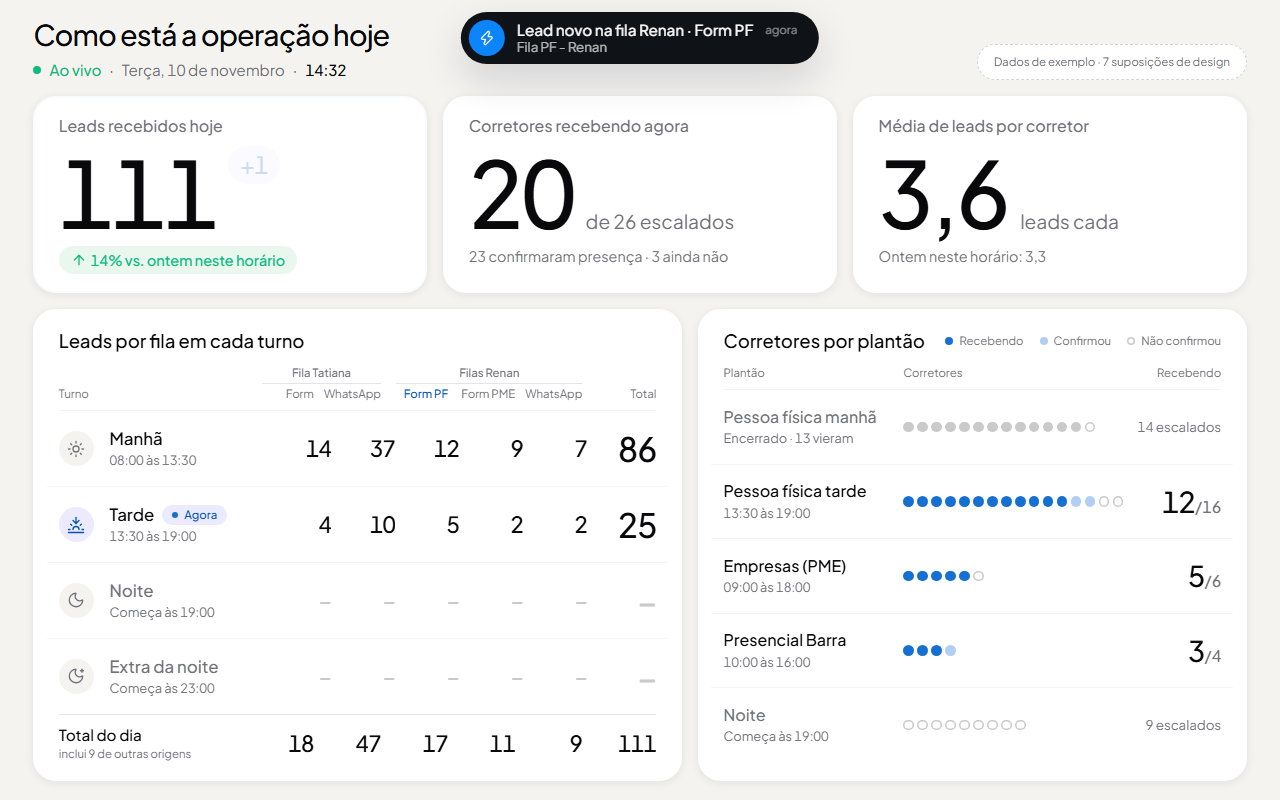
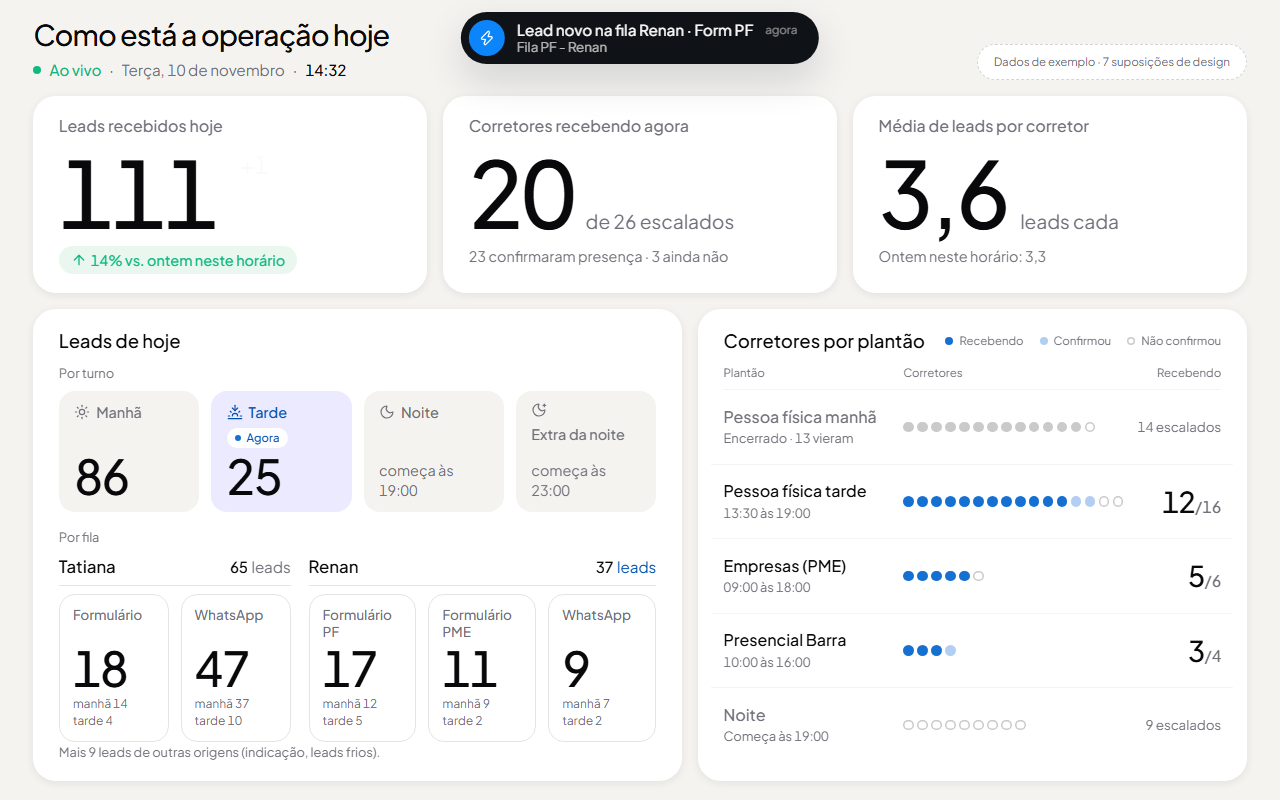
feat(dev): painel ao vivo troca a grade de filas por turnos e cartões
A grade turno x fila era difícil de ler. Agora "Leads de hoje" tem uma faixa
por turno (Manhã, Tarde, Noite, Extra) e um cartão por fila, agrupados em
Tatiana (Formulário, WhatsApp) e Renan (Formulário PF, Formulário PME,
WhatsApp), com o total do dia em número grande e "manhã N · tarde N" embaixo.
Os números dos cartões crescem com a altura da tela para a TV.

diff --git a/src/app/dev/painel-ao-vivo/painel.module.css b/src/app/dev/painel-ao-vivo/painel.module.css
@@ -7,6 +7,7 @@
   /* Suposição: números de destaque acima da escala (máx. --text-5xl 48px), crescem com a altura da tela. */
   --live-big: clamp(56px, 11.5vh, 128px);
   --live-mid: clamp(26px, 4.2vh, 52px);
+  --live-tile: clamp(28px, 6vh, 72px);
   --live-gap: clamp(12px, 2vh, 24px);
   --live-pad: clamp(16px, 2.4vh, 32px);
   --tracking-display: -0.03em;
@@ -94,30 +95,29 @@
 .legend { display: flex; flex-wrap: wrap; gap: 4px 16px; margin: 0; padding: 0; list-style: none; color: var(--text-muted); font-size: var(--text-xs); }
 .legend li { display: inline-flex; align-items: center; gap: 6px; }
 
-/* Filas por turno: ícone | turno | 5 filas | total */
-.turnoGrid { display: grid; grid-template-columns: auto minmax(0, 1fr) repeat(5, minmax(3.2em, 0.3fr)) minmax(2.8em, 0.34fr); align-items: center; column-gap: clamp(10px, 1.2vw, 20px); }
-.turnoHead { row-gap: 2px; padding-bottom: 8px; border-bottom: 1px solid var(--border-subtle); color: var(--text-muted); font-size: var(--text-xs); }
-.turnoHead > span { white-space: nowrap; transition: color var(--duration-fast, 250ms) ease; }
-.headLit { color: var(--series-1-text); font-weight: 500; }
-.groupLabel { grid-row: 1; justify-self: stretch; padding-bottom: 2px; border-bottom: 1px solid var(--border); color: var(--text-secondary); font-weight: 500; text-align: center; }
-.turnos { display: flex; flex: 1; flex-direction: column; justify-content: space-between; min-height: 0; margin: 0; padding: 0; list-style: none; }
-.turno { position: relative; flex: 1; padding: 0 12px; margin: 0 -12px; border-radius: var(--radius-panel); }
-.turno + .turno { border-top: 1px solid var(--border-subtle); border-top-left-radius: 0; border-top-right-radius: 0; }
-.turnoIcon { display: grid; place-items: center; width: clamp(32px, 4.4vh, 44px); height: clamp(32px, 4.4vh, 44px); border-radius: 9999px; background: var(--surface-muted); color: var(--text-secondary); }
-.turno[data-state="agora"] .turnoIcon { color: var(--series-1-text); background: var(--accent-subtle); }
-.turnoMain { min-width: 0; }
-.turnoName { display: flex; align-items: center; gap: 8px; margin: 0; font-size: clamp(var(--text-base), 2.1vh, var(--text-xl)); font-weight: 500; }
-.turno[data-state="depois"] .turnoName { color: var(--text-secondary); }
-.turnoHours { margin: 2px 0 0; color: var(--text-muted); font-size: clamp(var(--text-xs), 1.6vh, var(--text-base)); }
-.turnoNumber { --text-3xl: var(--live-mid); min-width: 2ch; font-size: var(--live-mid); font-weight: 500; letter-spacing: var(--tracking-display); line-height: 1; }
-.turnoNumber[data-empty], .origemCell[data-empty] { color: var(--neutral-5); }
-.origemCell { --text-3xl: clamp(18px, 2.8vh, 36px); position: relative; padding: 6px 8px; margin: -6px -8px; border-radius: 8px; font-size: clamp(18px, 2.8vh, 36px); font-weight: 500; letter-spacing: var(--tracking-display); line-height: 1; color: var(--text-secondary); transition: color var(--duration-fast, 250ms) ease; }
-.origemCell[data-lit] { color: var(--series-1-text); }
-.origemTotal { color: var(--foreground); }
-.turnoFoot { padding-top: clamp(8px, 1.2vh, 14px); border-top: 1px solid var(--border); }
-.turnoFootLabel { display: flex; flex-direction: column; font-size: clamp(var(--text-sm), 1.9vh, var(--text-lg)); font-weight: 500; }
-.turnoFootNote { color: var(--text-muted); font-size: var(--text-xs); font-weight: 400; }
-.nowPill { display: inline-flex; align-items: center; gap: 6px; padding: 2px 10px; border-radius: var(--radius-control); background: var(--accent-subtle); color: var(--series-1-text); font-size: var(--text-xs); font-weight: 500; }
+/* Leads de hoje: faixa por turno + cartões por fila */
+.sectionLabel { margin: 0 0 8px; color: var(--text-muted); font-size: clamp(var(--text-xs), 1.6vh, var(--text-sm)); }
+.turnoStrip { display: grid; grid-template-columns: repeat(4, minmax(0, 1fr)); gap: clamp(8px, 1vw, 12px); margin: 0 0 clamp(12px, 2.2vh, 24px); padding: 0; list-style: none; }
+.turnoBlock { position: relative; display: flex; flex-direction: column; justify-content: space-between; gap: 4px; min-height: clamp(76px, 13vh, 150px); padding: clamp(10px, 1.4vh, 16px) clamp(12px, 1.2vw, 16px); border-radius: 16px; background: var(--surface-muted); }
+.turnoBlock[data-state="agora"] { background: var(--accent-subtle); }
+.turnoBlockName { display: flex; flex-wrap: wrap; align-items: center; gap: 6px; margin: 0; color: var(--text-secondary); font-size: clamp(var(--text-sm), 1.8vh, var(--text-lg)); font-weight: 500; }
+.turnoBlock[data-state="agora"] .turnoBlockName { color: var(--series-1-text); }
+.turnoBlockNumber { --text-3xl: var(--live-tile); margin: 0; font-size: var(--live-tile); font-weight: 500; letter-spacing: var(--tracking-display); line-height: 1; }
+.turnoBlockLater { margin: 0; color: var(--text-muted); font-size: clamp(var(--text-sm), 1.8vh, var(--text-lg)); }
+.nowPill { display: inline-flex; align-items: center; gap: 6px; padding: 2px 8px; border-radius: var(--radius-control); background: var(--surface); color: var(--series-1-text); font-size: var(--text-xs); font-weight: 500; }
+
+.filaGroups { display: grid; grid-template-columns: minmax(0, 2fr) minmax(0, 3fr); gap: clamp(12px, 1.4vw, 20px); flex: 1; min-height: 0; }
+.filaGroup { display: flex; flex-direction: column; gap: 8px; min-width: 0; }
+.filaGroupName { display: flex; align-items: baseline; justify-content: space-between; gap: 8px; margin: 0; padding-bottom: 6px; border-bottom: 1px solid var(--border); font-size: clamp(var(--text-base), 2.1vh, var(--text-xl)); font-weight: 500; }
+.filaGroupTotal, .filaGroupTotalLit { --text-3xl: clamp(var(--text-sm), 1.9vh, var(--text-lg)); display: inline-flex; align-items: baseline; gap: 4px; color: var(--text-secondary); font-size: clamp(var(--text-sm), 1.9vh, var(--text-lg)); font-weight: 400; transition: color var(--duration-fast, 250ms) ease; }
+.filaGroupTotalLit { color: var(--series-1-text); }
+.filaTiles { display: grid; gap: clamp(8px, 1vw, 12px); flex: 1; }
+.filaTile { position: relative; display: flex; flex-direction: column; gap: 4px; min-width: 0; padding: clamp(10px, 1.4vh, 16px) clamp(10px, 1vw, 14px); border: 1px solid var(--border); border-radius: 16px; background: var(--surface); }
+.filaTileName { margin: 0; color: var(--text-secondary); font-size: clamp(var(--text-xs), 1.7vh, var(--text-base)); font-weight: 500; line-height: 1.25; }
+.filaTileNumber { --text-3xl: var(--live-tile); margin: auto 0 0; font-size: var(--live-tile); font-weight: 500; letter-spacing: var(--tracking-display); line-height: 1; transition: color var(--duration-fast, 250ms) ease; }
+.filaTile[data-lit] .filaTileNumber { color: var(--series-1-text); }
+.filaTileSplit { display: flex; flex-wrap: wrap; gap: 0 8px; margin: 0; color: var(--text-muted); font-size: clamp(11px, 1.5vh, var(--text-sm)); }
+.filaNote { margin: clamp(8px, 1.4vh, 14px) 0 0; color: var(--text-muted); font-size: clamp(var(--text-xs), 1.6vh, var(--text-sm)); }
 
 /* Plantões: nome | pontos | recebendo */
 .plantaoHead, .plantao { display: grid; grid-template-columns: minmax(0, 1fr) calc(16 * (var(--dot) + var(--dot-gap))) clamp(64px, 9.5vh, 112px); align-items: center; gap: clamp(12px, 1.4vw, 24px); }
@@ -157,28 +157,17 @@
 
 /* ------------------------------------------------------------ celular e tablet */
 @media (max-width: 1023px) {
-  .page { --live-big: 64px; --live-mid: 36px; grid-template-rows: none; align-content: start; height: 100dvh; overflow-y: auto; overscroll-behavior: contain; }
+  .page { --live-big: 64px; --live-mid: 36px; --live-tile: 36px; grid-template-rows: none; align-content: start; height: 100dvh; overflow-y: auto; overscroll-behavior: contain; }
   .header { flex-direction: column; align-items: flex-start; }
   .hero, .bottom { grid-template-columns: 1fr; }
-  .bottom, .panel, .turnos, .plantoes { min-height: auto; }
-  .turnos, .plantoes { flex: none; }
-  .turno, .plantao { min-height: 72px; }
-  .turnoGrid { column-gap: 8px; }
+  .bottom, .panel, .plantoes, .filaGroups { min-height: auto; }
+  .plantoes { flex: none; }
+  .plantao { min-height: 72px; }
+  .filaGroups { grid-template-columns: 1fr; }
 }
 @media (max-width: 640px) {
   .page { --live-big: 56px; --live-mid: 26px; }
-  /* Celular: ícone e horário saem da linha para as cinco filas caberem. */
-  .turnoIcon, .turnoHours { display: none; }
-  .turnoGrid { grid-template-columns: minmax(0, 1fr) repeat(5, minmax(1.9em, auto)) minmax(2.4em, auto); column-gap: 9px; }
-  .turnoHead { font-size: 10px; }
-  .turnoHead > span:nth-child(1) { grid-column: 2 / span 2 !important; }
-  .turnoHead > span:nth-child(2) { grid-column: 4 / span 3 !important; }
-  .turnoHead > span:nth-child(3), .turnoFootLabel { grid-column: 1 !important; }
-  .turnoHead > span:nth-child(n+4):nth-child(-n+8) { grid-column: auto !important; }
-  .turnoHead > span:last-child { grid-column: 7 !important; }
-  .origemCell { --text-3xl: 17px; font-size: 17px; padding: 4px; margin: -4px; }
-  .turnoName { font-size: var(--text-sm); }
-  .nowPill { padding: 1px 6px; }
+  .turnoStrip { grid-template-columns: repeat(2, minmax(0, 1fr)); }
   .plantaoHead { display: none; }
   .plantao { grid-template-columns: minmax(0, 1fr) auto; grid-template-areas: "name num" "dots dots"; row-gap: 8px; padding-block: 12px; }
   .plantaoName { grid-area: name; }

diff --git a/src/app/dev/painel-ao-vivo/_components/live-panel.tsx b/src/app/dev/painel-ao-vivo/_components/live-panel.tsx
@@ -149,38 +149,42 @@ export function LivePanel({ intervalMs, openAssumptions }: { intervalMs: number;
       </section>
 
       <div className={styles.bottom}>
-        <motion.section className={styles.panel} aria-labelledby="filas-title" {...rise(4)}>
+        <motion.section className={styles.panel} aria-labelledby="leads-title" {...rise(4)}>
           <header className={styles.panelHeader}>
-            <h2 id="filas-title" className={styles.panelTitle}>Leads por fila em cada turno</h2>
+            <h2 id="leads-title" className={styles.panelTitle}>Leads de hoje</h2>
           </header>
-          <div className={`${styles.turnoGrid} ${styles.turnoHead}`} aria-hidden>
-            <span style={{ gridColumn: "3 / span 2" }} className={styles.groupLabel}>Fila Tatiana</span>
-            <span style={{ gridColumn: "5 / span 3" }} className={styles.groupLabel}>Filas Renan</span>
-            <span style={{ gridColumn: "1 / span 2", gridRow: 2 }}>Turno</span>
-            {FILA_COLUMNS.map((column, i) => (
-              <span key={column.key} style={{ gridColumn: 3 + i, gridRow: 2 }} className={`${styles.alignEnd} ${flash?.origem === column.key ? styles.headLit : ""}`}>{column.short}</span>
-            ))}
-            <span style={{ gridColumn: 8, gridRow: 2 }} className={styles.alignEnd}>Total</span>
-          </div>
-          <ul className={styles.turnos}>
+
+          <p className={styles.sectionLabel}>Por turno</p>
+          <ul className={styles.turnoStrip}>
             {data.turnos.map((turno) => (
-              <TurnoRow key={turno.key} turno={turno} reduce={reduce} flash={flash?.kind === "lead" && flash.turno === turno.key ? flash : null} />
+              <TurnoBlock key={turno.key} turno={turno} reduce={reduce} flashId={flash?.kind === "lead" && flash.turno === turno.key ? flash.id : null} />
             ))}
           </ul>
-          <div className={`${styles.turnoGrid} ${styles.turnoFoot}`}>
-            <span className={styles.turnoFootLabel} style={{ gridColumn: "1 / span 2" }}>
-              Total do dia
-              {others > 0 ? <span className={styles.turnoFootNote}>inclui {others} de outras origens</span> : null}
-            </span>
-            {FILA_COLUMNS.map((column) => (
-              <Cell key={column.key} flashId={flash?.origem === column.key ? flash.id : null} reduce={reduce} label={`${column.queue}, total do dia: ${origens[column.key]}`}>
-                <AnimatedCounter value={origens[column.key]} locale="pt-BR" animateOnView />
-              </Cell>
-            ))}
-            <Cell flashId={leadFlash} reduce={reduce} strong label={`Total do dia: ${total}`}>
-              <AnimatedCounter value={total} locale="pt-BR" animateOnView />
-            </Cell>
+
+          <p className={styles.sectionLabel}>Por fila</p>
+          <div className={styles.filaGroups}>
+            {(["Tatiana", "Renan"] as const).map((group) => {
+              const columns = FILA_COLUMNS.filter((column) => column.group === group);
+              const groupTotal = columns.reduce((sum, column) => sum + origens[column.key], 0);
+              const lit = columns.some((column) => column.key === flash?.origem);
+              return (
+                <div key={group} className={styles.filaGroup}>
+                  <p className={styles.filaGroupName}>
+                    {group}
+                    <span className={lit ? styles.filaGroupTotalLit : styles.filaGroupTotal}>
+                      <Bump id={lit ? flash?.id ?? null : null} reduce={reduce}><AnimatedCounter value={groupTotal} locale="pt-BR" animateOnView /></Bump> leads
+                    </span>
+                  </p>
+                  <div className={styles.filaTiles} style={{ gridTemplateColumns: `repeat(${columns.length}, minmax(0, 1fr))` }}>
+                    {columns.map((column) => (
+                      <FilaTile key={column.key} column={column} turnos={data.turnos} total={origens[column.key]} reduce={reduce} flashId={flash?.origem === column.key ? flash.id : null} />
+                    ))}
+                  </div>
+                </div>
+              );
+            })}
           </div>
+          {others > 0 ? <p className={styles.filaNote}>Mais {others} leads de outras origens (indicação, leads frios).</p> : null}
         </motion.section>
 
         <motion.section className={styles.panel} aria-labelledby="plantoes-title" {...rise(5)}>
@@ -226,39 +230,38 @@ export function LivePanel({ intervalMs, openAssumptions }: { intervalMs: number;
   );
 }
 
-function TurnoRow({ turno, reduce, flash }: { turno: Turno; reduce: boolean; flash: Flash | null }) {
+function TurnoBlock({ turno, reduce, flashId }: { turno: Turno; reduce: boolean; flashId: number | null }) {
   const Icon = TURNO_ICON[turno.key];
   const later = turno.state === "depois";
   return (
-    <li className={`${styles.turnoGrid} ${styles.turno}`} data-state={turno.state}>
-      <FlashRing id={flash?.id ?? null} reduce={reduce} soft />
-      <span className={styles.turnoIcon} aria-hidden><Icon size={18} strokeWidth={1.75} /></span>
-      <div className={styles.turnoMain}>
-        <p className={styles.turnoName}>
-          {turno.label}
-          {turno.state === "agora" ? <span className={styles.nowPill}><span className={styles.liveDotBlue} aria-hidden />Agora</span> : null}
-        </p>
-        <p className={styles.turnoHours}>{later ? `Começa às ${turno.startsAt}` : turno.hours}</p>
-      </div>
-      {FILA_COLUMNS.map((column) => (
-        <Cell key={column.key} flashId={flash && flash.origem === column.key ? flash.id : null} reduce={reduce} empty={later} label={`${turno.label}, ${column.queue}: ${turno.origens[column.key]}`}>
-          {later ? "–" : <AnimatedCounter value={turno.origens[column.key]} locale="pt-BR" animateOnView />}
-        </Cell>
-      ))}
-      <span className={`${styles.turnoNumber} ${styles.alignEnd}`} data-empty={later ? "" : undefined}>
-        {later ? "–" : <Bump id={flash?.id ?? null} reduce={reduce}><AnimatedCounter value={turno.leads} locale="pt-BR" animateOnView /></Bump>}
-      </span>
+    <li className={styles.turnoBlock} data-state={turno.state} aria-label={later ? `${turno.label}: começa às ${turno.startsAt}` : `${turno.label}: ${turno.leads} leads`}>
+      <FlashRing id={flashId} reduce={reduce} soft />
+      <p className={styles.turnoBlockName}>
+        <Icon size={16} strokeWidth={1.75} aria-hidden />
+        {turno.label}
+        {turno.state === "agora" ? <span className={styles.nowPill}><span className={styles.liveDotBlue} aria-hidden />Agora</span> : null}
+      </p>
+      {later ? (
+        <p className={styles.turnoBlockLater}>começa às {turno.startsAt}</p>
+      ) : (
+        <p className={styles.turnoBlockNumber}><Bump id={flashId} reduce={reduce}><AnimatedCounter value={turno.leads} locale="pt-BR" animateOnView /></Bump></p>
+      )}
     </li>
   );
 }
 
-/** Número de uma fila: acende e dá um pulo curto quando chega lead nela. */
-function Cell({ flashId, reduce, empty, strong, label, children }: { flashId: number | null; reduce: boolean; empty?: boolean; strong?: boolean; label: string; children: ReactNode }) {
+/** Uma fila: total do dia grande e, embaixo, quanto veio em cada turno que já começou. */
+function FilaTile({ column, turnos, total, reduce, flashId }: { column: (typeof FILA_COLUMNS)[number]; turnos: Turno[]; total: number; reduce: boolean; flashId: number | null }) {
+  const started = turnos.filter((turno) => turno.state !== "depois");
   return (
-    <span className={`${styles.origemCell} ${strong ? styles.origemTotal : ""} ${styles.alignEnd}`} data-empty={empty ? "" : undefined} data-lit={flashId !== null ? "" : undefined} aria-label={label}>
-      <FlashRing id={flashId} reduce={reduce} soft />
-      <Bump id={flashId} reduce={reduce}>{children}</Bump>
-    </span>
+    <div className={styles.filaTile} data-lit={flashId !== null ? "" : undefined} aria-label={`${column.queue}: ${total} leads hoje`}>
+      <FlashRing id={flashId} reduce={reduce} />
+      <p className={styles.filaTileName}>{column.tile}</p>
+      <p className={styles.filaTileNumber}><Bump id={flashId} reduce={reduce}><AnimatedCounter value={total} locale="pt-BR" animateOnView /></Bump></p>
+      <p className={styles.filaTileSplit}>
+        {started.map((turno) => <span key={turno.key}>{turno.label.toLowerCase()} {turno.origens[column.key]}</span>)}
+      </p>
+    </div>
   );
 }
 

diff --git a/src/app/dev/painel-ao-vivo/_components/data.ts b/src/app/dev/painel-ao-vivo/_components/data.ts
@@ -15,13 +15,13 @@ export type OrigemKey = "tatianaForm" | "tatianaWhatsapp" | "renanPf" | "renanPm
 export type Origens = Record<OrigemKey, number>;
 export const ORIGEM_KEYS: OrigemKey[] = ["tatianaForm", "tatianaWhatsapp", "renanPf", "renanPme", "renanWhatsapp"];
 
-export type FilaColumn = { key: OrigemKey; group: "Tatiana" | "Renan"; short: string; label: string; queue: string };
+export type FilaColumn = { key: OrigemKey; group: "Tatiana" | "Renan"; short: string; tile: string; label: string; queue: string };
 export const FILA_COLUMNS: FilaColumn[] = [
-  { key: "tatianaForm", group: "Tatiana", short: "Form", label: "Tatiana · Form", queue: "Fila TATIANA (formulário)" },
-  { key: "tatianaWhatsapp", group: "Tatiana", short: "WhatsApp", label: "Tatiana · WhatsApp", queue: "Fila TATIANA (WhatsApp)" },
-  { key: "renanPf", group: "Renan", short: "Form PF", label: "Renan · Form PF", queue: "Fila PF - Renan" },
-  { key: "renanPme", group: "Renan", short: "Form PME", label: "Renan · Form PME", queue: "Fila PME - Renan" },
-  { key: "renanWhatsapp", group: "Renan", short: "WhatsApp", label: "Renan · WhatsApp", queue: "Whatsapp Renan" },
+  { key: "tatianaForm", group: "Tatiana", short: "Form", tile: "Formulário", label: "Tatiana · Form", queue: "Fila TATIANA (formulário)" },
+  { key: "tatianaWhatsapp", group: "Tatiana", short: "WhatsApp", tile: "WhatsApp", label: "Tatiana · WhatsApp", queue: "Fila TATIANA (WhatsApp)" },
+  { key: "renanPf", group: "Renan", short: "Form PF", tile: "Formulário PF", label: "Renan · Form PF", queue: "Fila PF - Renan" },
+  { key: "renanPme", group: "Renan", short: "Form PME", tile: "Formulário PME", label: "Renan · Form PME", queue: "Fila PME - Renan" },
+  { key: "renanWhatsapp", group: "Renan", short: "WhatsApp", tile: "WhatsApp", label: "Renan · WhatsApp", queue: "Whatsapp Renan" },
 ];
 
 export type TurnoKey = "manha" | "tarde" | "noite" | "extra";

diff --git a/src/app/dev/painel-ao-vivo/NOTAS.md b/src/app/dev/painel-ao-vivo/NOTAS.md
@@ -12,7 +12,7 @@ Pedido: página limpa, números grandes, sem rolagem no computador/TV, para o di
 | Leads recebidos hoje | `countsAsReceived` em `src/features/lead-distribution/received-in-day-core.ts` (oferta com corretor, não cancelada) | Começo do dia: o painel do diretor conta "desde 19h" (`today.ts`); o exemplo usa o dia corrido. Decidir na implementação. |
 | Comparação "vs. ontem neste horário" | mesma contagem, janela de ontem até o mesmo horário | Suposição: regra nova. |
 | Leads por turno (manhã, tarde) | divisão em `src/features/lead-distribution/duty-shifts.ts` (`DEFAULT_SHIFT_SPLIT_AT = "13:30"`, `dutyShifts`) e agrupamento de `duty-leads-shift-groups.ts` | |
-| Leads por fila em cada turno: Fila Tatiana (Form, WhatsApp), Filas Renan (Form PF, Form PME, WhatsApp) | filas do "Resultado do Plantão" (`plantao-report-core.ts`, `DEFAULT_PLANTAO_REPORT_CONFIG.queues`): "Fila TATIANA" separada por `classifyPlantaoLead` em formulário (respostas de form) e WhatsApp (ctwa/sem referência); "Fila PF - Renan"; "Fila PME - Renan"; "Whatsapp Renan" | Fila é a entrada do lead, não o plantão que atende (pedido do usuário em 10/11). O total do turno inclui outras origens (indicação, frios, outras filas); a linha "Total do dia" diz quantas. |
+| "Leads de hoje": faixa por turno e um cartão por fila (Tatiana: Formulário, WhatsApp; Renan: Formulário PF, Formulário PME, WhatsApp), com o total do dia e "manhã N · tarde N" embaixo | filas do "Resultado do Plantão" (`plantao-report-core.ts`, `DEFAULT_PLANTAO_REPORT_CONFIG.queues`): "Fila TATIANA" separada por `classifyPlantaoLead` em formulário (respostas de form) e WhatsApp (ctwa/sem referência); "Fila PF - Renan"; "Fila PME - Renan"; "Whatsapp Renan" | Fila é a entrada do lead, não o plantão que atende (pedido do usuário em 10/11). O total do turno inclui outras origens (indicação, frios, outras filas); a linha "Total do dia" diz quantas. |
 | Noite e extra da noite | escala da noite e o extra (DEC-152), `overnightExtraReceiptGap` em `received-in-day-core.ts`, `extra-shift-domain` | O extra só aparece se houver escala dele no dia. |
 | Escalados por plantão | escala do dia: `dated-duty-roster.ts`, `roster-queries.ts`, `active-queue-duty-roster.ts` | |
 | Confirmaram presença | `duty-presence-domain.ts`, `duty-presence-whatsapp*.ts` (o corretor só recebe depois de confirmar, com WhatsApp conectado) | |
